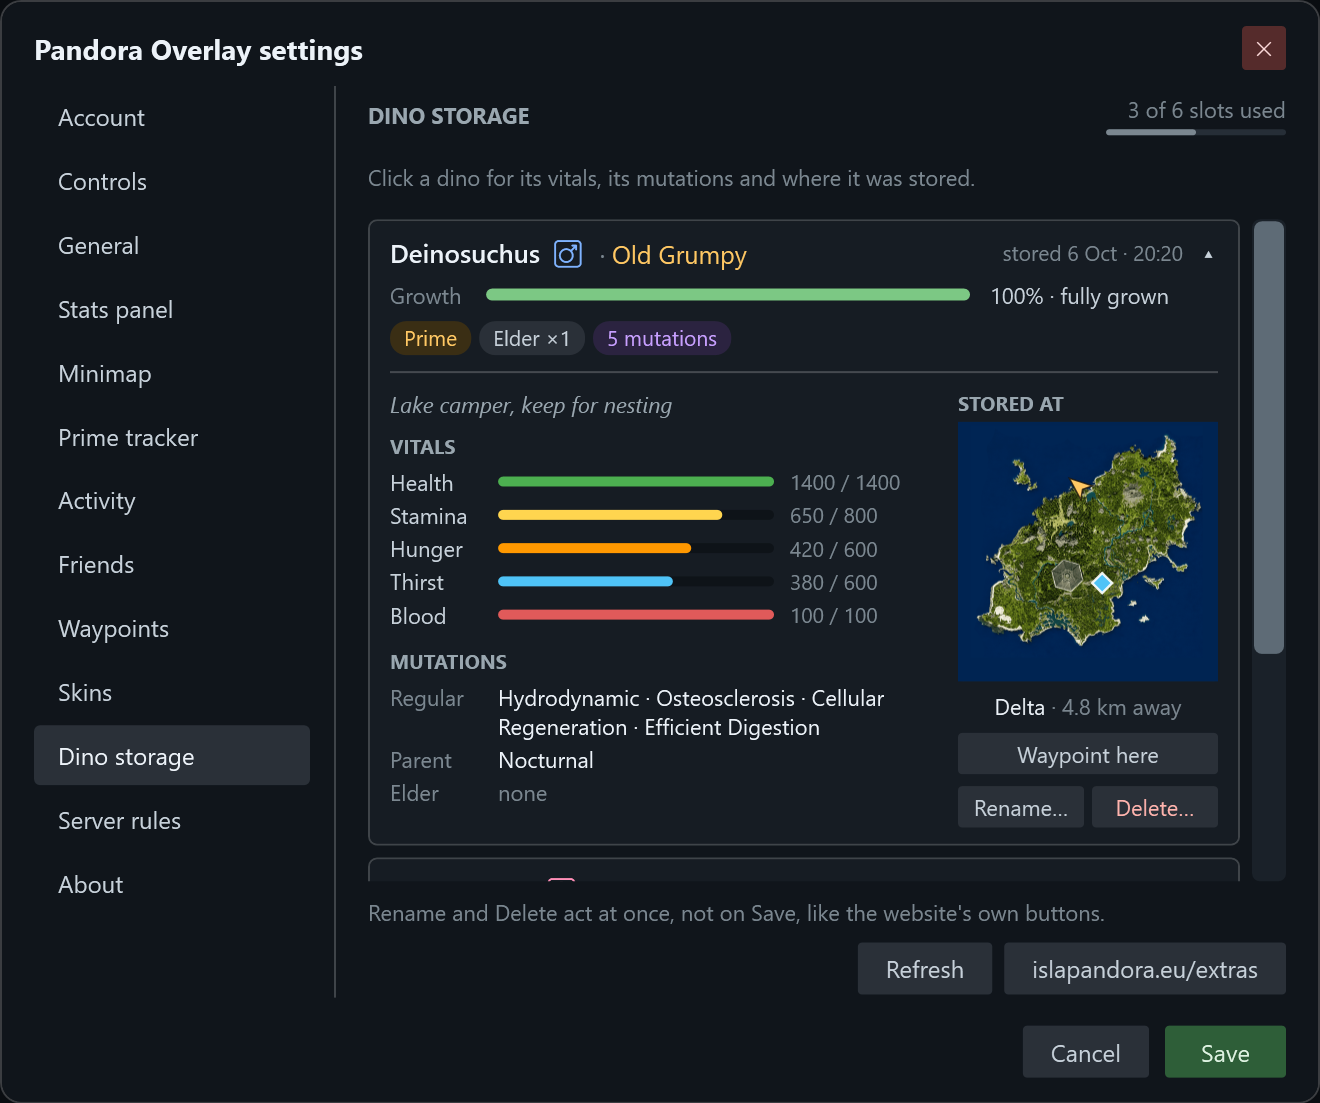
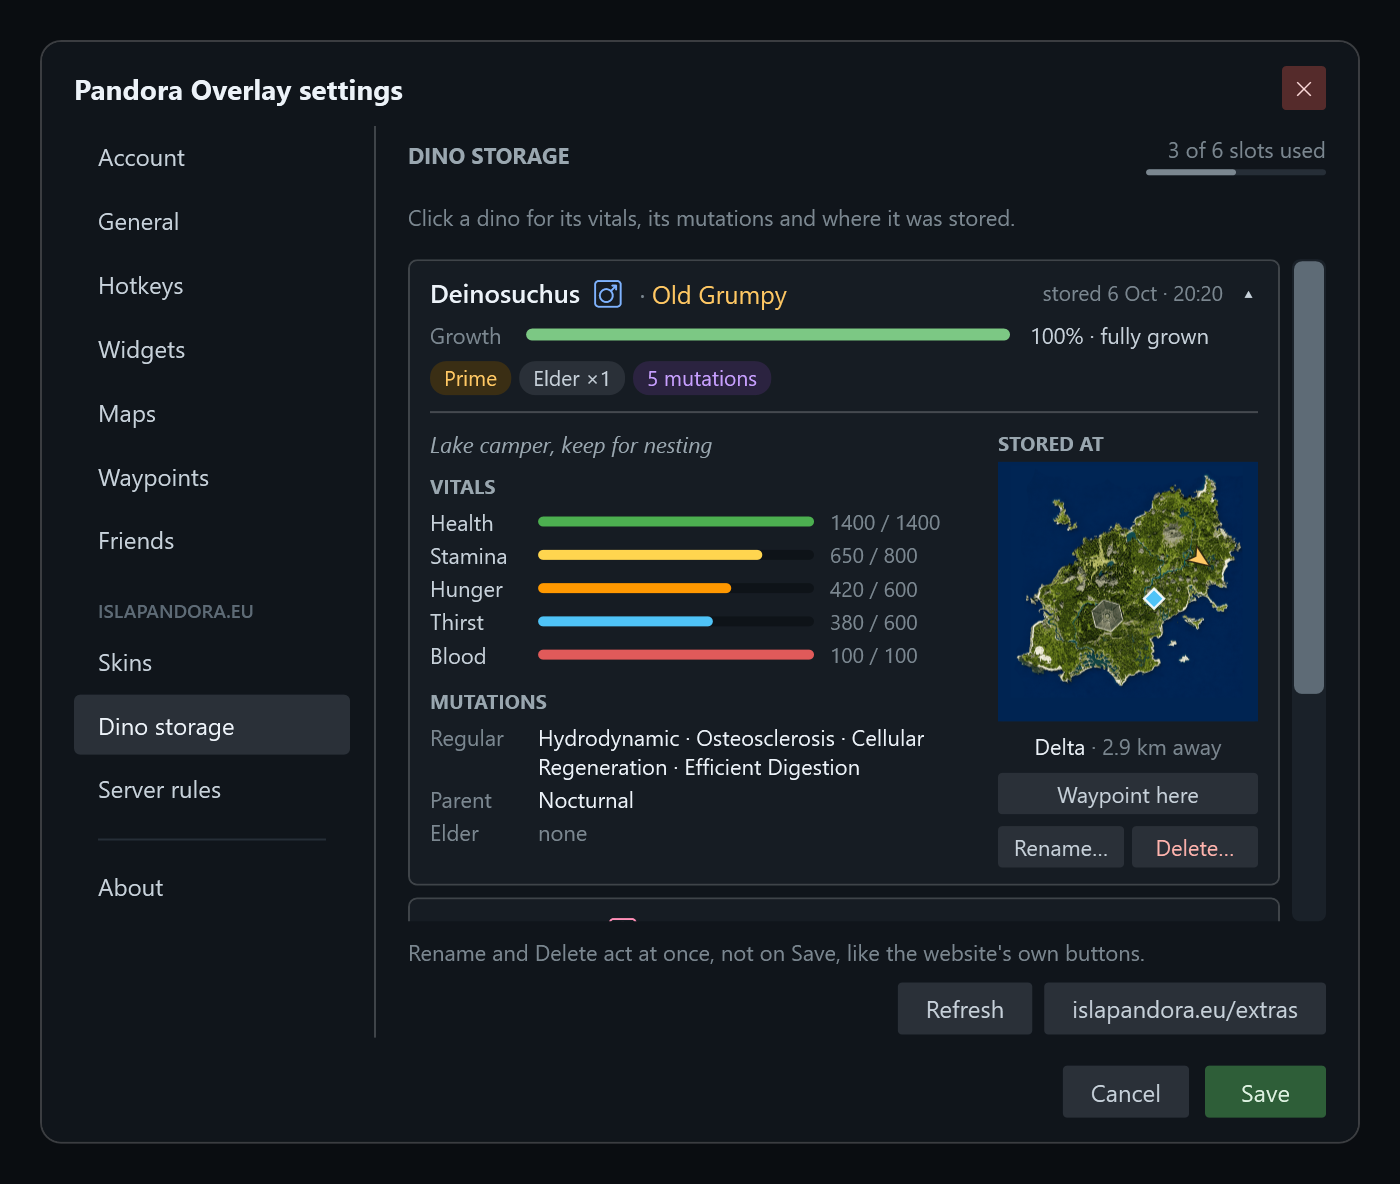
README: the three Settings pictures with the new grouped nav
setup-settings (first run, Account), server-rules (a Deinosuchus's limit
highlighted) and dino-storage (made-up dinos, the first card open) are
rendered off-screen from a clean build of dac0188, at 2x on the dark
backdrop like the other renders. No request was sent: the first run has no
session, Server rules is the bundled copy, and Dino storage got sample
data by reflection with its load marked busy. Rendered with an English
number format (the app follows Windows'), so the storage card reads
"2.9 km away"; its alt text says so.

diff --git a/README.md b/README.md
@@ -192,7 +192,7 @@ What is kept is only the website session, encrypted with **Windows DPAPI** (scop
 
 ### Dino storage
 
-![The Settings dialog on the Dino storage page: "3 of 6 slots used", a Deinosuchus named "Old Grumpy" opened in place with its Prime, Elder ×1 and 5 mutations badges, its vitals as bars, its mutations, and on the right the island map with a blue diamond where it was stored, "Delta · 4.8 km away", and the Waypoint here, Rename… and Delete… buttons](docs/dino-storage.png)
+![The Settings dialog on the Dino storage page: "3 of 6 slots used", a Deinosuchus named "Old Grumpy" opened in place with its Prime, Elder ×1 and 5 mutations badges, its vitals as bars, its mutations, and on the right the island map with a blue diamond where it was stored, "Delta · 2.9 km away", and the Waypoint here, Rename… and Delete… buttons](docs/dino-storage.png)
 
 - **Settings → Dino storage** shows the dinos stored on your islapandora.eu account, the way the website's [Extras page](https://islapandora.eu/extras) lists them: species, sex, the name you gave it, when it was stored, its growth and stage, and the website's badges (Prime, elder stacks, mutations, compensated). The title row says how many of your storage slots are used.
 - **Click a dino** to open it in place: its vitals, its mutations (regular, parent and elder), and where it was stored, on the island map with the area's name and, while you are in game, how far it is from you. One dino is open at a time; click it again to close it.
